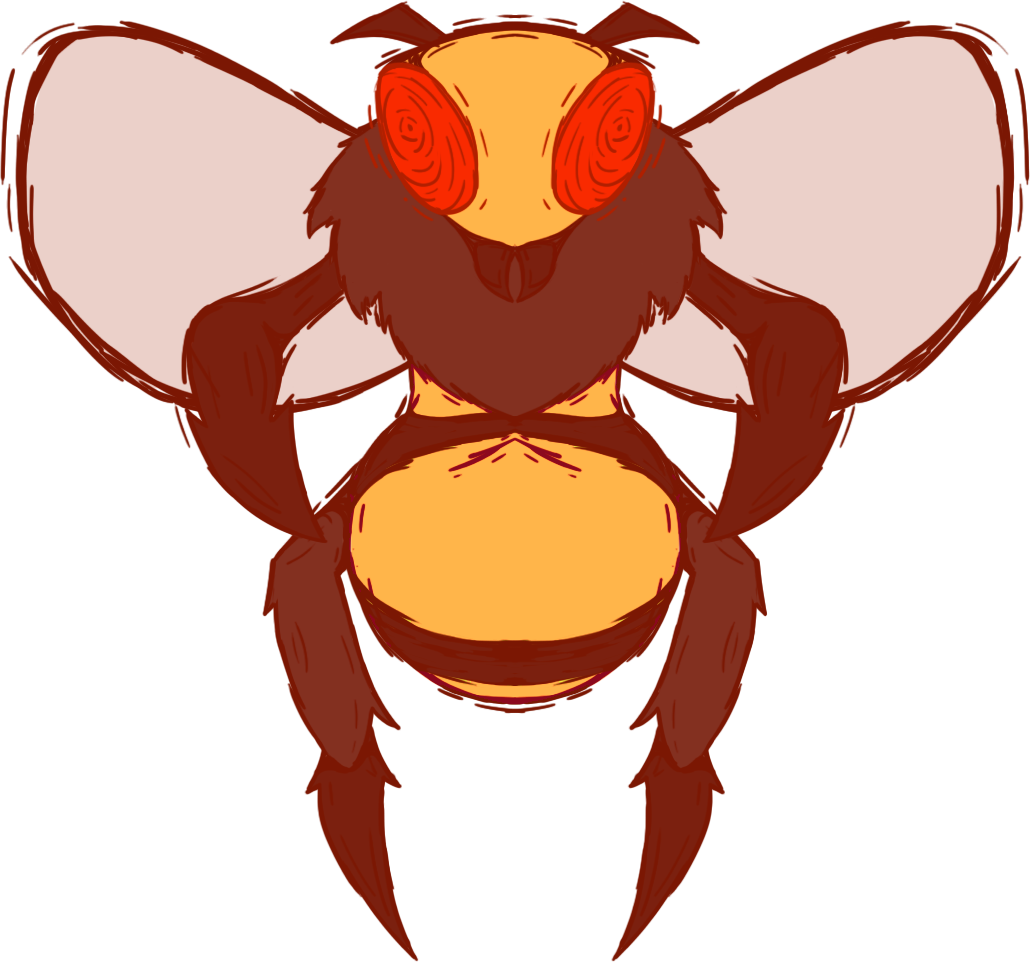
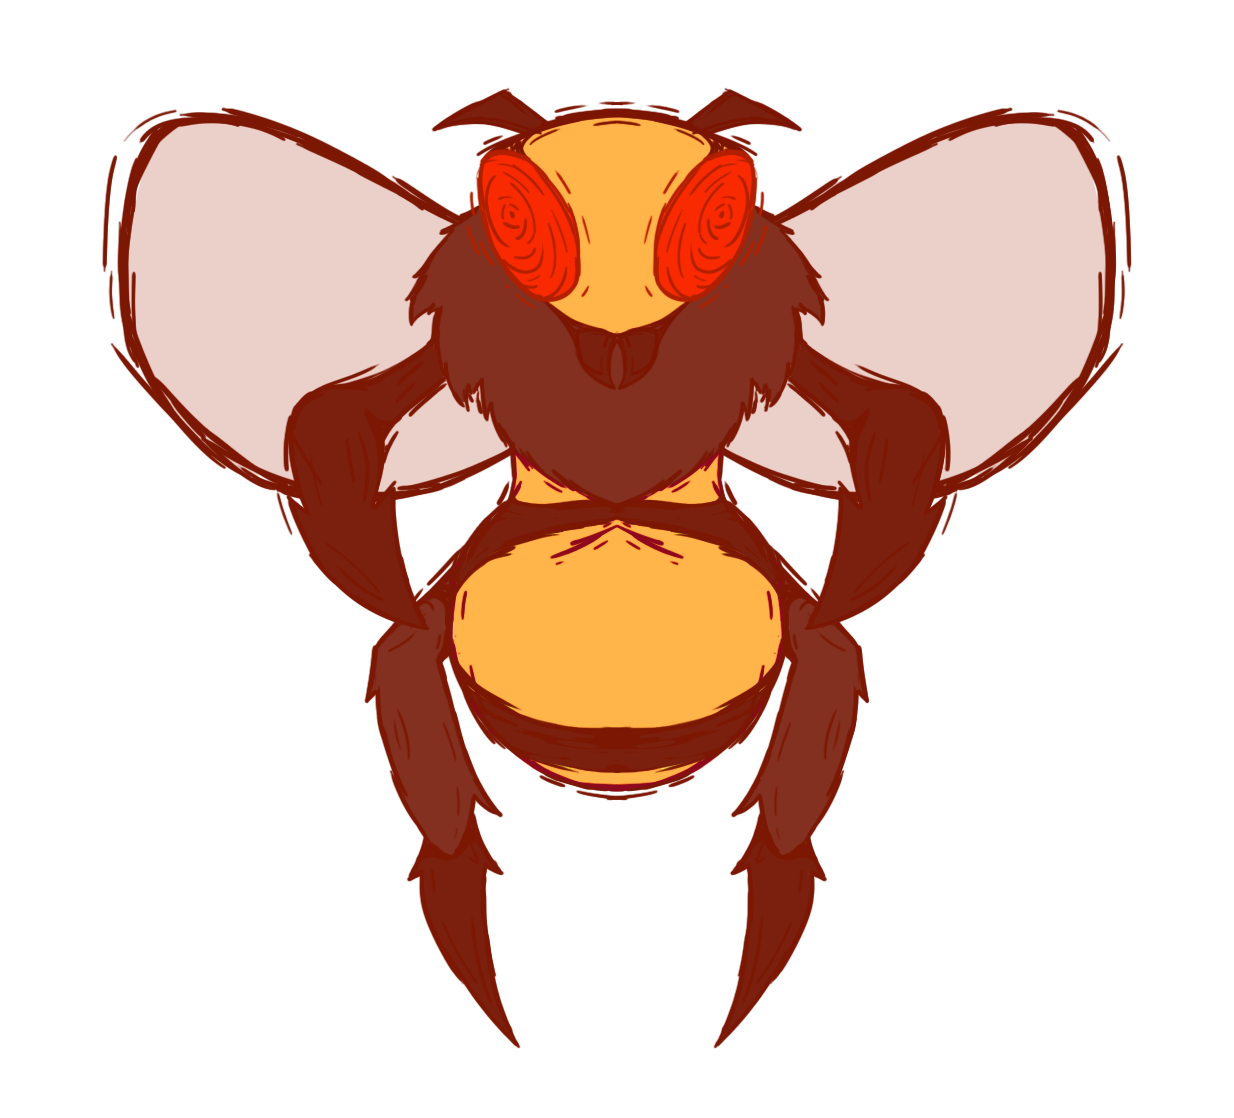
Tercer nivel funcional y correccion sobre la recarga del jugador

diff --git a/js/juego.js b/js/juego.js
@@ -14,6 +14,8 @@ class Juego {
         this.nivelActual = null;
         this.nivelesDelJuego = [];
 
+        this.cambioRapidoDeNivel = false;
+
         this.uiControles = null;
         this.uiDeProyectiles = null;
     }
@@ -24,6 +26,7 @@ class Juego {
         this.spriteTelarania = await PIXI.Assets.load("assets/Telarania.png");
         this.spriteNivel1 = await PIXI.Assets.load("assets/Nivel1Visual.png");
         this.spriteNivel2 = await PIXI.Assets.load("assets/Nivel2Visual.png");
+        this.spriteNivel3 = await PIXI.Assets.load("assets/Nivel3Visual.png");
         this.spriteMoscaHumedad = await PIXI.Assets.load("assets/MoscaDeHumedad.png");
         this.spriteMariquita = await PIXI.Assets.load("assets/Mariquita.png");
         this.spriteMosca = await PIXI.Assets.load("assets/Mosca.png");
@@ -32,6 +35,8 @@ class Juego {
         this.spriteAbejorro = await PIXI.Assets.load("assets/Abejorro.png");
         this.spriteMariquitaDañada = await PIXI.Assets.load("assets/MariquitaDañada.png");
         this.spriteMoscaHumedadDañada = await PIXI.Assets.load("assets/MoscaDeHumedadDañada.png");
+        this.spriteMoscaDañada = await PIXI.Assets.load("assets/MoscaDañada.png");
+        this.spriteAbejaDañada = await PIXI.Assets.load("assets/AbejaDañada.png");
         this.spriteSombraArachnida = await PIXI.Assets.load("assets/sombraArachnida.png");
         this.spritesDeProyectiles = await PIXI.Assets.load("assets/UIProyectiles.json");
         this.spriteControles = await PIXI.Assets.load("assets/controles.png");
@@ -99,14 +104,17 @@ class Juego {
     }
 
     async cargarNiveles(){
-        const uiLvl1 = new UINivel(nuevoJuego.spriteNivel1);
-        const uiLvl2 = new UINivel(nuevoJuego.spriteNivel2);
+        const uiLvl1 = new UINivel(this.spriteNivel1);
+        const uiLvl2 = new UINivel(this.spriteNivel2);
+        const uiLvl3 = new UINivel(this.spriteNivel3);
         
         const nivel1 = new Nivel(uiLvl1, 10, [chico], 1);
-        const nivel2 = new Nivel(uiLvl2, 20, [chico, mediano], 2);
+        const nivel2 = new Nivel(uiLvl2, 15, [chico, mediano], 2);
+        const nivel3 = new Nivel(uiLvl3, 20, [chico, mediano, grande], 3);
 
         this.nivelesDelJuego.push(nivel1);
         this.nivelesDelJuego.push(nivel2);
+        this.nivelesDelJuego.push(nivel3);
 
         this.nivelActual = nivel1;
     }
@@ -125,7 +133,7 @@ class Juego {
     }
 
     cambiarNivelActual(nuevoNivel){
-        if(this.jugador.enemigosEliminados >= this.nivelActual.maxEnemigos - 3){
+        if(this.jugador.enemigosEliminados >= this.nivelActual.maxEnemigos - 3 || this.cambioRapidoDeNivel){ 
             this.nivelActual.uiDeNivel.spriteNivel.visible = false;
             this.limpiarNivelActual()
 
@@ -135,6 +143,15 @@ class Juego {
             this.nivelActual.uiDeNivel.contenedor.x = window.innerWidth + 10;
             this.nivelActual.filtrarEnemigos();
             this.nivelActual.cargarEnemigos();
+        }
+    }
+
+    chequearCambioDeNivel(){
+        if(this.nivelActual.idDeNivel === 1){
+            this.cambiarNivelActual(this.nivelesDelJuego.find(lvl => lvl.idDeNivel === 2));
+        }
+        else if(this.nivelActual.idDeNivel === 2){
+            this.cambiarNivelActual(this.nivelesDelJuego.find(lvl => lvl.idDeNivel === 3));
         }
     }
 
@@ -194,6 +211,10 @@ class Juego {
                 this.pantallaInicial.cerrarBestiario();  
                 this.bestiarioAbierto = false;  
             }
+
+            if ((e.key === "ñ" || e.key === "Ñ")) {
+                this.cambioRapidoDeNivel = true;
+            }
         });
 
         window.addEventListener('keyup', (e) => {
@@ -244,7 +265,7 @@ class Juego {
 
         this.moverTodaOotecaExistente();
 
-        this.cambiarNivelActual(this.nivelesDelJuego.find(lvl => lvl.idDeNivel === 2));
+        this.chequearCambioDeNivel();
         this.actualizarInterfaz();
         //actualizarPuntaje();
     }
@@ -344,14 +365,14 @@ class Nivel{
     }
 
     filtrarEnemigos(){
-        if(this.tiposDeEnemigos.some(e => e === chico) && !this.tiposDeEnemigos.some(e => e === mediano)){
+        if(this.tiposDeEnemigos.some(e => e === chico) && !this.tiposDeEnemigos.some(e => e === mediano) && !this.tiposDeEnemigos.some(e => e === grande)){
             this.enemigosDisponibles = [MoscaDeHumedad, Mariquita];
         }
 
-        else if(this.tiposDeEnemigos.some(e => e === mediano)){
+        else if(this.tiposDeEnemigos.some(e => e === mediano) && !this.tiposDeEnemigos.some(e => e === grande)){
             this.enemigosDisponibles = [MoscaDeHumedad, Mariquita, Mosca, Abeja];
         }
-        else{
+        else if(this.tiposDeEnemigos.some(e => e === grande)){
             this.enemigosDisponibles = [MoscaDeHumedad, Mariquita, Mosca, Abeja, Mosquito, Abejorro];
         }
     }
@@ -384,10 +405,12 @@ const keys = {
     d:false,
     p:false,
     r:false,
+    ñ:false,
     A:false,
     D:false,
     P:false,
     R:false,
+    Ñ:false,
     " ":false 
 };
 
@@ -395,7 +418,9 @@ const keysProcesadas = {
     p: false,
     P: false,
     r: false,
-    R: false,
+    R: false, 
+    ñ: false,
+    Ñ: false,
     " ":false 
 }
 

diff --git a/js/enemigo.js b/js/enemigo.js
@@ -92,10 +92,13 @@ class Mariquita extends Enemigo{
 
 class Mosca extends Enemigo{
     constructor(x, y){
-        super(x, y, nuevoJuego.spriteMosca);
+        super(x, y, nuevoJuego.spriteMosca, nuevoJuego.spriteMoscaDañada);
 
         this.sprite.scale.x = 0.08 * (window.innerWidth / 1073);
         this.sprite.scale.y = 0.09 * (window.innerHeight / 754);
+
+        this.spriteDolor.scale.x = 0.08 * window.innerWidth / 1073;
+        this.spriteDolor.scale.y = 0.09 * window.innerHeight / 754;
 
         this.health = 75;
         this.tipoEnemigo = mediano;
@@ -104,10 +107,13 @@ class Mosca extends Enemigo{
 
 class Abeja extends Enemigo{
     constructor(x, y){
-        super(x, y, nuevoJuego.spriteAbeja);
+        super(x, y, nuevoJuego.spriteAbeja, nuevoJuego.spriteAbejaDañada);
 
-        this.sprite.scale.x = 0.095 * (window.innerWidth / 1030);
+        this.sprite.scale.x = 0.098 * (window.innerWidth / 1030);
         this.sprite.scale.y = 0.14 * (window.innerHeight / 962);
+
+        this.spriteDolor.scale.x = 0.095 * (window.innerWidth / 1030);
+        this.spriteDolor.scale.y = 0.14 * (window.innerHeight / 962);
 
         this.health = 100;
         this.tipoEnemigo = mediano;
@@ -118,6 +124,9 @@ class Mosquito extends Enemigo{
     constructor(x, y){
         super(x, y, nuevoJuego.spriteMosquito);
 
+        this.sprite.scale.x = 0.14 * (window.innerWidth / 1044);
+        this.sprite.scale.y = 0.18 * (window.innerHeight / 893);
+
         this.health = 150; 
         this.tipoEnemigo = grande;
     }
@@ -126,6 +135,9 @@ class Mosquito extends Enemigo{
 class Abejorro extends Enemigo{
     constructor(x, y){
         super(x, y, nuevoJuego.spriteAbejorro);
+
+        this.sprite.scale.x = 0.15 * (window.innerWidth / 1074);
+        this.sprite.scale.y = 0.21 * (window.innerHeight / 844);
 
         this.health = 175;
         this.tipoEnemigo = grande;

diff --git a/js/jugador.js b/js/jugador.js
@@ -120,7 +120,7 @@ class Jugador{
 
             if(verificarColision(this.collider, ooteca.collider)){
                 this.cargasDisponibles += ooteca.enemigoContenido.tipoEnemigo.recarga;
-                nuevoJuego.nivelActual.ootecasEnNivel.splice(this, 1);
+                nuevoJuego.nivelActual.ootecasEnNivel.splice(o, 1);
                 ooteca.destruir();
                 console.log("Recargando telarañas");
 